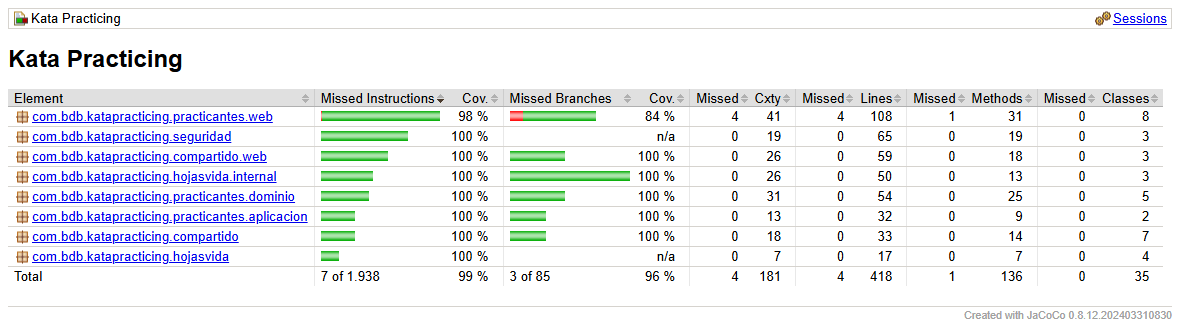
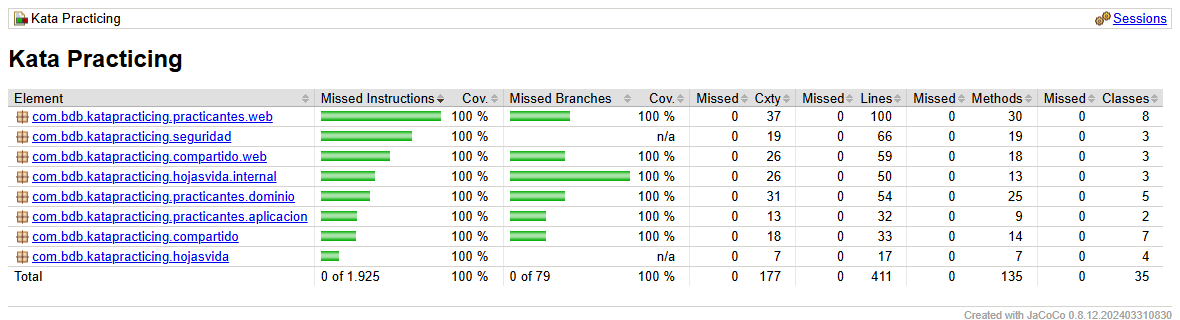
test: cobertura al 100 % eliminando código muerto
- ActualizarEstadoRequest: se elimina un constructor que no usaba nadie.
- PracticanteModelAssembler: se quita la condición "sin transiciones", que nunca ocurre
  (todo estado tiene al menos una transición posible).
- PracticanteController: se quitan comprobaciones de null imposibles
  (Spring siempre inyecta WebRequest y @PageableDefault nunca deja la página en null).
- FormularioRegistroDoc (solo documenta Swagger y nunca se instancia) se excluye de la
  medición en JaCoCo y SonarCloud, igual que PracticantesApplication.
- README y captura de JaCoCo actualizados: 100 % de instrucciones, ramas y líneas.

diff --git a/backend/src/main/java/com/bdb/katapracticing/practicantes/web/PracticanteController.java b/backend/src/main/java/com/bdb/katapracticing/practicantes/web/PracticanteController.java
@@ -145,7 +145,7 @@ public class PracticanteController {
                                                                     @Parameter(hidden = true) WebRequest peticion) {
         Practicante practicante = servicio.obtener(id);
         String etag = ETags.de(practicante.getVersion());
-        if (peticion != null && peticion.checkNotModified(etag)) {
+        if (peticion.checkNotModified(etag)) {
             return ResponseEntity.status(HttpStatus.NOT_MODIFIED).eTag(etag).build();
         }
         return ResponseEntity.ok().eTag(etag).body(ensamblador.toModel(practicante));
@@ -193,10 +193,8 @@ public class PracticanteController {
                 .body(hojaVida.contenido());
     }
 
+    /** La página nunca llega en null: Spring la crea con los valores de {@code @PageableDefault}. */
     private static void validarOrden(Pageable pagina) {
-        if (pagina == null) {
-            return;
-        }
         for (Sort.Order orden : pagina.getSort()) {
             if (!ORDEN_PERMITIDO.contains(orden.getProperty())) {
                 throw new DatoInvalidoException("sort",

diff --git a/backend/src/main/java/com/bdb/katapracticing/practicantes/web/PracticanteModelAssembler.java b/backend/src/main/java/com/bdb/katapracticing/practicantes/web/PracticanteModelAssembler.java
@@ -33,10 +33,9 @@ public class PracticanteModelAssembler
         Set<EstadoPracticante> transiciones = practicante.getEstado().transicionesPermitidas();
 
         // self lleva la "affordance" de cambiar estado: en HAL-FORMS se publica como plantilla (_templates).
-        Link self = linkTo(api.obtener(id, null)).withSelfRel();
-        if (!transiciones.isEmpty()) {
-            self = self.andAffordance(afford(api.actualizarEstado(id, null, null)));
-        }
+        // Siempre hay al menos una transición posible (ver EstadoPracticante.transicionesPermitidas).
+        Link self = linkTo(api.obtener(id, null)).withSelfRel()
+                .andAffordance(afford(api.actualizarEstado(id, null, null)));
 
         EntityModel<PracticanteResponse> modelo = EntityModel.of(PracticanteResponse.desde(practicante), self);
         modelo.add(linkTo(api.descargarHojaVida(id)).withRel(RelacionesPracticante.HOJA_VIDA)

diff --git a/backend/src/main/java/com/bdb/katapracticing/practicantes/web/ActualizarEstadoRequest.java b/backend/src/main/java/com/bdb/katapracticing/practicantes/web/ActualizarEstadoRequest.java
@@ -15,14 +15,6 @@ public class ActualizarEstadoRequest {
     @NotNull(message = "El estado es obligatorio")
     private EstadoPracticante estado;
 
-    public ActualizarEstadoRequest() {
-        // Requerido por Jackson
-    }
-
-    public ActualizarEstadoRequest(EstadoPracticante estado) {
-        this.estado = estado;
-    }
-
     public EstadoPracticante getEstado() {
         return estado;
     }

diff --git a/README.md b/README.md
@@ -60,7 +60,7 @@ El **back-end** es un **monolito modular**: una sola aplicación Spring Boot div
 | Indicador | Resultado | Evidencia |
 |---|---|---|
 | Pruebas automatizadas | **98**, todas en verde | [Evidencia E8](#e8-github-actions), [`PracticanteApiTest`](backend/src/test/java/com/bdb/katapracticing/PracticanteApiTest.java) |
-| Cobertura (JaCoCo) | **99 %** de instrucciones, **96 %** de ramas (mínimo exigido: 90 %) | [Evidencia E10](#e10-jacoco) |
+| Cobertura (JaCoCo) | **100 %** de instrucciones, ramas y líneas (mínimo exigido: 90 %) | [Evidencia E10](#e10-jacoco) |
 | Calidad (SonarCloud) | Quality Gate **aprobado**, 0 bugs, 0 vulnerabilidades, 0 % de duplicación | [Evidencia E9](#e9-sonarcloud) |
 | Fronteras de la arquitectura | Verificadas por [`ModulosTest`](backend/src/test/java/com/bdb/katapracticing/ModulosTest.java#L26) | [Sección 4.2](#42-estilo-arquitectónico-monolito-modular) |
 | Madurez REST | **Nivel 3** de Richardson (HAL + HAL-FORMS) | [Sección 4.4](#44-estilo-de-la-api-rest-nivel-3-hateoas), [Evidencia E2](#e2-video-prueba-de-los-endpoints-en-swagger-ui) |
@@ -955,7 +955,7 @@ Cada regla se valida en **varias capas**: si una falla, la siguiente la detiene.
 
 ```bash
 cd backend
-mvn verify      # pruebas + cobertura; falla si la cobertura baja del 90 %
+mvn verify      # pruebas + cobertura (hoy 100 %); falla si la cobertura baja del 90 %
 ```
 
 | Tipo | Clase | Qué comprueba |
@@ -990,7 +990,7 @@ mvn verify      # pruebas + cobertura; falla si la cobertura baja del 90 %
 | E7 | Swagger UI | Contrato OpenAPI 3 documentado | [Ver](#e7-swagger-ui), `http://localhost:3000/api/docs/swagger-ui.html` |
 | E8 | GitHub Actions | Pipeline de CI en verde | [Ver](#e8-github-actions), [Actions](https://github.com/AnaFiquitiva/kata-practicing/actions) |
 | E9 | SonarCloud | Quality Gate aprobado, 0 incidencias | [Ver](#e9-sonarcloud), [Proyecto](https://sonarcloud.io/summary/overall?id=AnaFiquitiva_kata-practicing) |
-| E10 | JaCoCo | 99 % de instrucciones, 96 % de ramas | [Ver](#e10-jacoco) |
+| E10 | JaCoCo | 100 % de instrucciones, ramas y líneas | [Ver](#e10-jacoco) |
 | E11 | Identidad visual | Uso de logos y colores oficiales | [Ver](#e11-identidad-visual) |
 | E12 | Prueba de arquitectura | Las fronteras del monolito modular se cumplen | [`ModulosTest`](backend/src/test/java/com/bdb/katapracticing/ModulosTest.java#L26) |
 
@@ -1048,7 +1048,7 @@ Cada insignia del encabezado tiene su captura de respaldo:
 |---|---|---|---|
 | ![Pruebas y SonarCloud](https://github.com/AnaFiquitiva/kata-practicing/actions/workflows/sonarcloud.yml/badge.svg) | Que el workflow de CI (pruebas, cobertura y análisis) termine bien | Passing | [Evidencia E8](#e8-github-actions) |
 | ![Quality Gate](https://sonarcloud.io/api/project_badges/measure?project=AnaFiquitiva_kata-practicing&metric=alert_status) | Que el código cumpla el umbral de calidad de SonarCloud | Passed | [Evidencia E9](#e9-sonarcloud), recuadro "Quality gate" |
-| ![Coverage](https://sonarcloud.io/api/project_badges/measure?project=AnaFiquitiva_kata-practicing&metric=coverage) | Porcentaje de código ejecutado por las pruebas | 98,4 % en SonarCloud (líneas) y 99 % en JaCoCo (instrucciones) | [Evidencia E9](#e9-sonarcloud), recuadro "Coverage", y [Evidencia E10](#e10-jacoco) |
+| ![Coverage](https://sonarcloud.io/api/project_badges/measure?project=AnaFiquitiva_kata-practicing&metric=coverage) | Porcentaje de código ejecutado por las pruebas | 100 % en SonarCloud y en JaCoCo | [Evidencia E9](#e9-sonarcloud), recuadro "Coverage", y [Evidencia E10](#e10-jacoco) |
 | ![Bugs](https://sonarcloud.io/api/project_badges/measure?project=AnaFiquitiva_kata-practicing&metric=bugs) | Errores de código detectados por el análisis estático | 0 | [Evidencia E9](#e9-sonarcloud), recuadro "Reliability" (0 incidencias) |
 
 #### E8. GitHub Actions
@@ -1059,13 +1059,15 @@ Ejecuciones del workflow "Pruebas y SonarCloud" en `main`, todas en verde. Cada 
 
 #### E9. SonarCloud
 
-Quality Gate **Passed**. Security, Reliability (bugs) y Maintainability con **0 incidencias** y calificación **A**, cobertura del **98,4 %** y **0 %** de duplicación, analizando el commit `43a5d16`. [Ver en SonarCloud](https://sonarcloud.io/summary/overall?id=AnaFiquitiva_kata-practicing).
+Quality Gate **Passed**. Security, Reliability (bugs) y Maintainability con **0 incidencias** y calificación **A**, cobertura del **100 %** y **0 %** de duplicación. [Ver en SonarCloud](https://sonarcloud.io/summary/overall?id=AnaFiquitiva_kata-practicing).
 
 ![SonarCloud](docs/capturas/08-sonarcloud.png)
 
 #### E10. JaCoCo
 
-Reporte local generado con `mvn verify` en `backend/target/site/jacoco/index.html`: **99 %** de instrucciones y **96 %** de ramas cubiertas, por encima del mínimo del 90 % que exige el build.
+Reporte local generado con `mvn verify` en `backend/target/site/jacoco/index.html`: **100 %** de instrucciones, ramas, líneas, métodos y clases. El build exige un mínimo del 90 %.
+
+Solo se excluyen de la medición dos clases sin lógica que probar: `PracticantesApplication` (el `main` que arranca Spring) y `FormularioRegistroDoc` (solo describe el formulario en Swagger y nunca se instancia). La exclusión está en el [`pom.xml`](backend/pom.xml) y en [`sonar-project.properties`](sonar-project.properties).
 
 ![JaCoCo](docs/capturas/07-jacoco.png)
 
